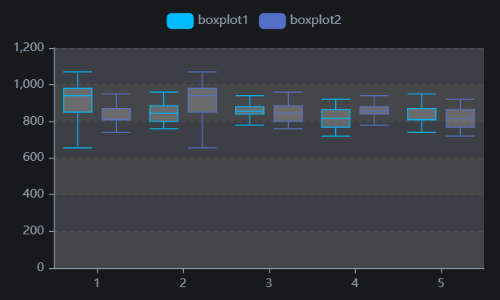
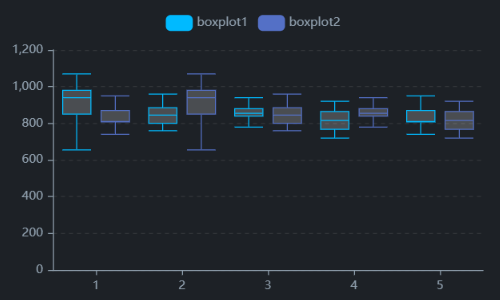
修改同步部分配置项信息

diff --git a/src/components/Schema/boxplot/basic-boxplot/config.vue b/src/components/Schema/boxplot/basic-boxplot/config.vue
@@ -103,6 +103,7 @@
           <g-color-picker v-model="config.xAxis.title.textStyle.color" label="颜色" inline="inline-single" />
         </g-field>
       </g-field-collapse>
+
       <g-field-collapse label="轴线" v-model="config.xAxis.axisLine.show" toggle>
         <g-field label="轴线样式" flat>
           <g-input-number
@@ -149,6 +150,42 @@
           />
           <g-select v-model="config.xAxis.axisLabel.textStyle.fontWeight" :data="fontWeights" inline label="字体粗细" />
           <g-color-picker v-model="config.xAxis.axisLabel.textStyle.color" label="颜色" inline="inline-single" />
+        </g-field>
+      </g-field-collapse>
+
+      <g-field-collapse label="网格线" v-model="config.xAxis.grid.show" toggle>
+        <g-field label="线型样式" flat>
+          <g-select v-model="config.xAxis.grid.line.type" :data="lineStyles" inline="inline" label="类型" />
+          <g-input-number
+            v-model="config.xAxis.grid.line.width"
+            :min="0"
+            :max="100"
+            :step="1"
+            suffix="px"
+            inline="inline"
+            label="粗细"
+          />
+          <g-color-picker v-model="config.xAxis.grid.line.color" inline="inline-single" label="颜色" />
+          <g-input-number
+            v-if="config.xAxis.grid.line.type === 'dashed'"
+            v-model="config.xAxis.grid.line.dashedLength"
+            :min="0"
+            :max="100"
+            :step="1"
+            suffix="px"
+            inline="inline"
+            label="长度"
+          />
+          <g-input-number
+            v-if="config.xAxis.grid.line.type === 'dashed'"
+            v-model="config.xAxis.grid.line.dashedSpace"
+            :min="0"
+            :max="100"
+            :step="1"
+            suffix="px"
+            inline="inline"
+            label="间距"
+          />
         </g-field>
       </g-field-collapse>
     </g-field-collapse>

diff --git a/src/components/Schema/boxplot/basic-boxplot/config.js b/src/components/Schema/boxplot/basic-boxplot/config.js
@@ -20,7 +20,7 @@ export const basicBoxplotConfig = {
   alias: '盒须图',
   icon: 'boxplot',
   type: ComType.com,
-  componentType: 'scatter',
+  componentType: 'boxplot',
   attr: { w: 500, h: 300 },
   config: {
     global: {
@@ -73,6 +73,16 @@ export const basicBoxplotConfig = {
           fontSize: 12,
           color: '#90a0ae',
           fontWeight: 'normal',
+        },
+      },
+      grid: {
+        show: false,
+        line: {
+          type: 'dashed',
+          width: 1,
+          color: 'rgba(233, 228, 228, 0.1)',
+          dashedLength: 4,
+          dashedSpace: 4,
         },
       },
       splitArea: {
@@ -160,14 +170,14 @@ export const basicBoxplotConfig = {
         line: {
           type: 'dashed',
           width: 1,
-          color: 'rgba(111, 107, 107, 0.3)',
+          color: 'rgba(233, 228, 228, 0.1)',
           dashedLength: 4,
           dashedSpace: 4,
         },
       },
       splitArea: {
-        show: true,
-        color: ['rgba(255,255,255,0.3)', 'rgba(200,200,200,0.2)'],
+        show: false,
+        color: ['rgba(13, 42, 66, 1)', 'rgba(255, 255, 255, 0.2)'],
       },
     },
     tooltip: {

diff --git a/src/components/Schema/boxplot/basic-boxplot/main.vue b/src/components/Schema/boxplot/basic-boxplot/main.vue
@@ -88,6 +88,17 @@ export default {
           splitArea: {
             show: xAxis.splitArea.show,
           },
+          splitLine: {
+            show: xAxis.grid.show,
+            lineStyle: {
+              type:
+                xAxis.grid.line.type === 'dashed'
+                  ? [xAxis.grid.line.dashedLength, xAxis.grid.line.dashedSpace]
+                  : xAxis.grid.line.type,
+              width: xAxis.grid.line.width,
+              color: xAxis.grid.line.color,
+            },
+          },
           data: chartData.value.xData,
         },
         yAxis: {

diff --git a/src/components/Schema/scatter/line-basic-scatter/config.js b/src/components/Schema/scatter/line-basic-scatter/config.js
@@ -107,7 +107,7 @@ export const lineBasicScatterConfig = {
         line: {
           type: 'dashed',
           width: 1,
-          color: 'rgba(111, 107, 107, 0.3)',
+          color: 'rgba(233, 228, 228, 0.1)',
           dashedLength: 4,
           dashedSpace: 4,
         },
@@ -168,7 +168,7 @@ export const lineBasicScatterConfig = {
         line: {
           type: 'dashed',
           width: 1,
-          color: 'rgba(111, 107, 107, 0.3)',
+          color: 'rgba(233, 228, 228, 0.1)',
           dashedLength: 4,
           dashedSpace: 4,
         },

diff --git a/src/components/Schema/scatter/basic-scatter/config.js b/src/components/Schema/scatter/basic-scatter/config.js
@@ -121,7 +121,7 @@ export const basicScatterConfig = {
         line: {
           type: 'dashed',
           width: 1,
-          color: 'rgba(111, 107, 107, 0.3)',
+          color: 'rgba(233, 228, 228, 0.1)',
           dashedLength: 4,
           dashedSpace: 4,
         },
@@ -182,7 +182,7 @@ export const basicScatterConfig = {
         line: {
           type: 'dashed',
           width: 1,
-          color: 'rgba(111, 107, 107, 0.3)',
+          color: 'rgba(233, 228, 228, 0.1)',
           dashedLength: 4,
           dashedSpace: 4,
         },

diff --git a/src/views/schema/screen-editor/canvas-main/index.vue b/src/views/schema/screen-editor/canvas-main/index.vue
@@ -1,12 +1,6 @@
 <template>
   <div class="canvas-main">
-    <div
-      id="canvas-wp"
-      ref="canvasWpRef"
-      class="canvas-panel-wrap"
-      @mousedown.stop="cancelSelectCom"
-      @mouseup.stop="cancelSelectCom"
-    >
+    <div id="canvas-wp" ref="canvasWpRef" class="canvas-panel-wrap" @mousedown.stop="cancelSelectCom">
       <div class="screen-shot" :style="screenShotStyle">
         <mark-line :style="screenShotStyle" v-if="toolbox.markLine" />
         <action-bar />

diff --git a/src/components/Schema/funnel/basic-funnel/config.js b/src/components/Schema/funnel/basic-funnel/config.js
@@ -29,7 +29,7 @@ export const basicFunnel = {
       sort: 'descending', //ascending从小到大/descending从大到小/none数组顺序
       gap: 5, //数据图形间距
       margin: {
-        left: '20',
+        left: '60',
         top: '20',
         right: '20',
         bottom: '20',
